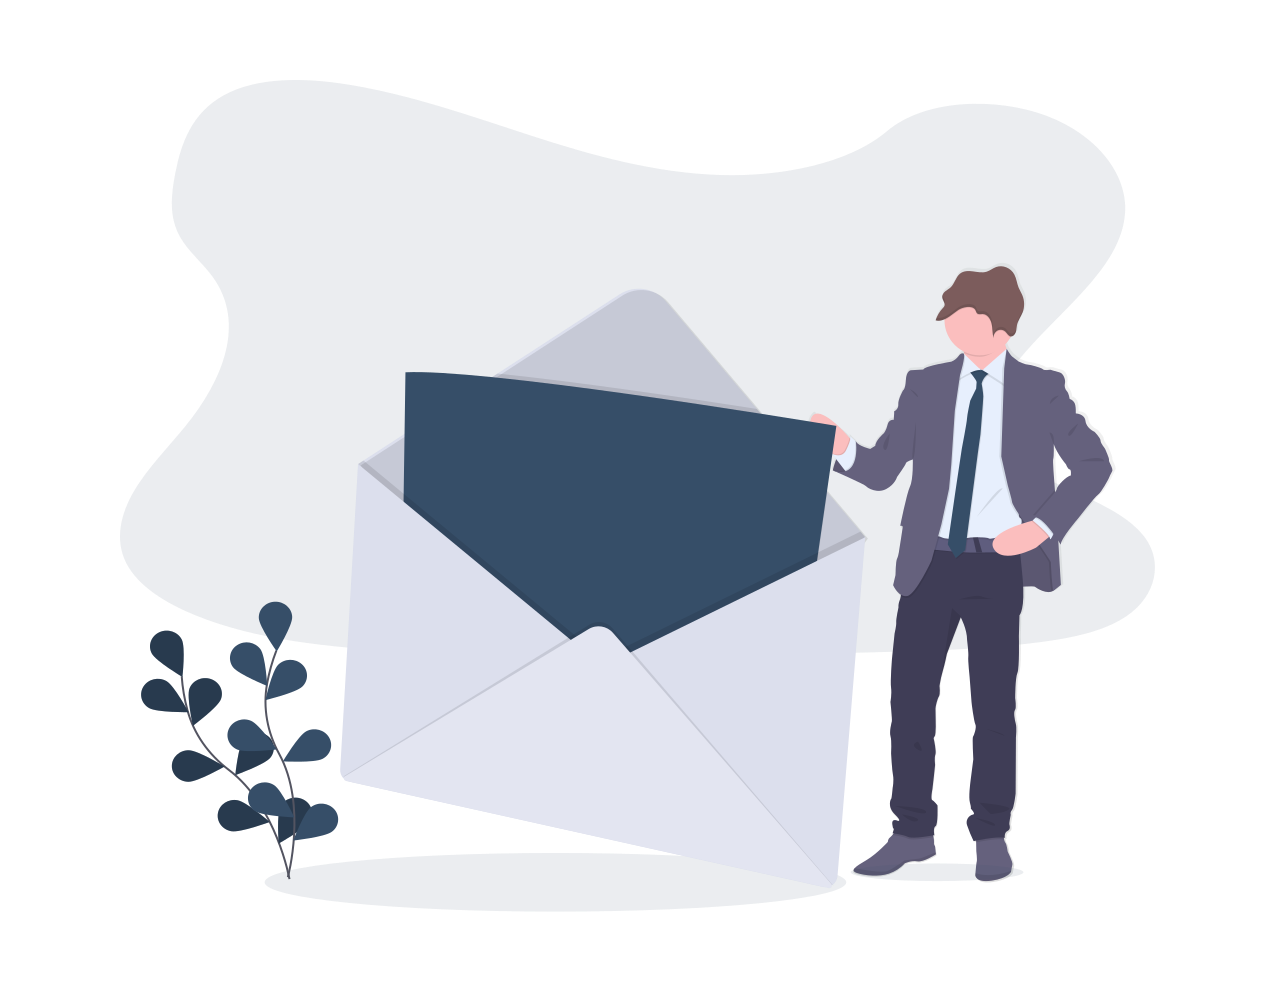
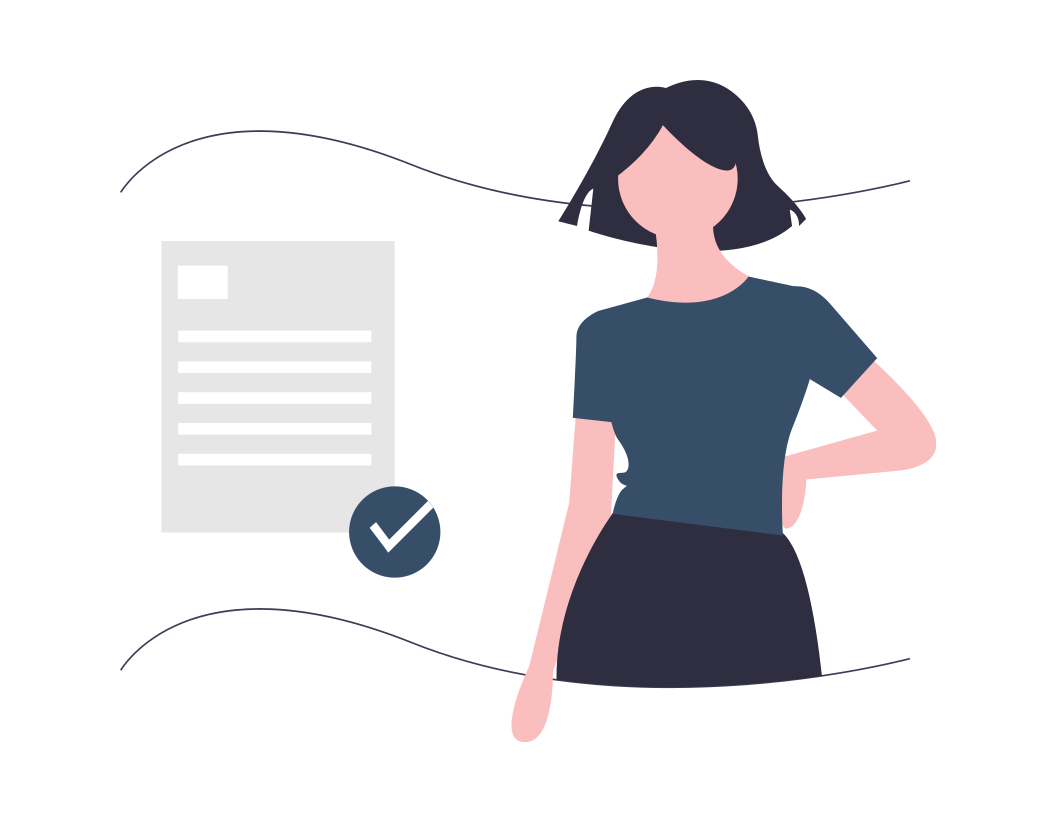
remoções de imagens

Changed region(s): [[0.0938, 0.0912, 0.9062, 0.9124], [0.1562, 0.2737, 0.1875, 0.3954], [0.125, 0.1825, 0.1562, 0.2129]]

diff --git a/public/template/css/style.css b/public/template/css/style.css
@@ -359,7 +359,7 @@ a:hover {
     width: 100%;
     height: 100%;
     z-index: 9999;
-    background: url(../images/loader.gif) center no-repeat #fff;
+    background: url(../../images/default/others/loader.gif) center no-repeat #fff;
 }
 
 /* Navbar */

diff --git a/resources/views/pages/contact/layouts/contact/contact.blade.php b/resources/views/pages/contact/layouts/contact/contact.blade.php
@@ -86,7 +86,7 @@
 
             <!-- imagem -->
             <div class="col-lg-6">
-                <img src="{{ url('images/default/others/form.png') }}" class="img-fluid fe-center-y op-0-9" alt="">
+                <img src="{{ url('images/default/others/contact.png') }}" class="img-fluid fe-center-y op-0-9" alt="">
             </div>
         </div>
     </div>